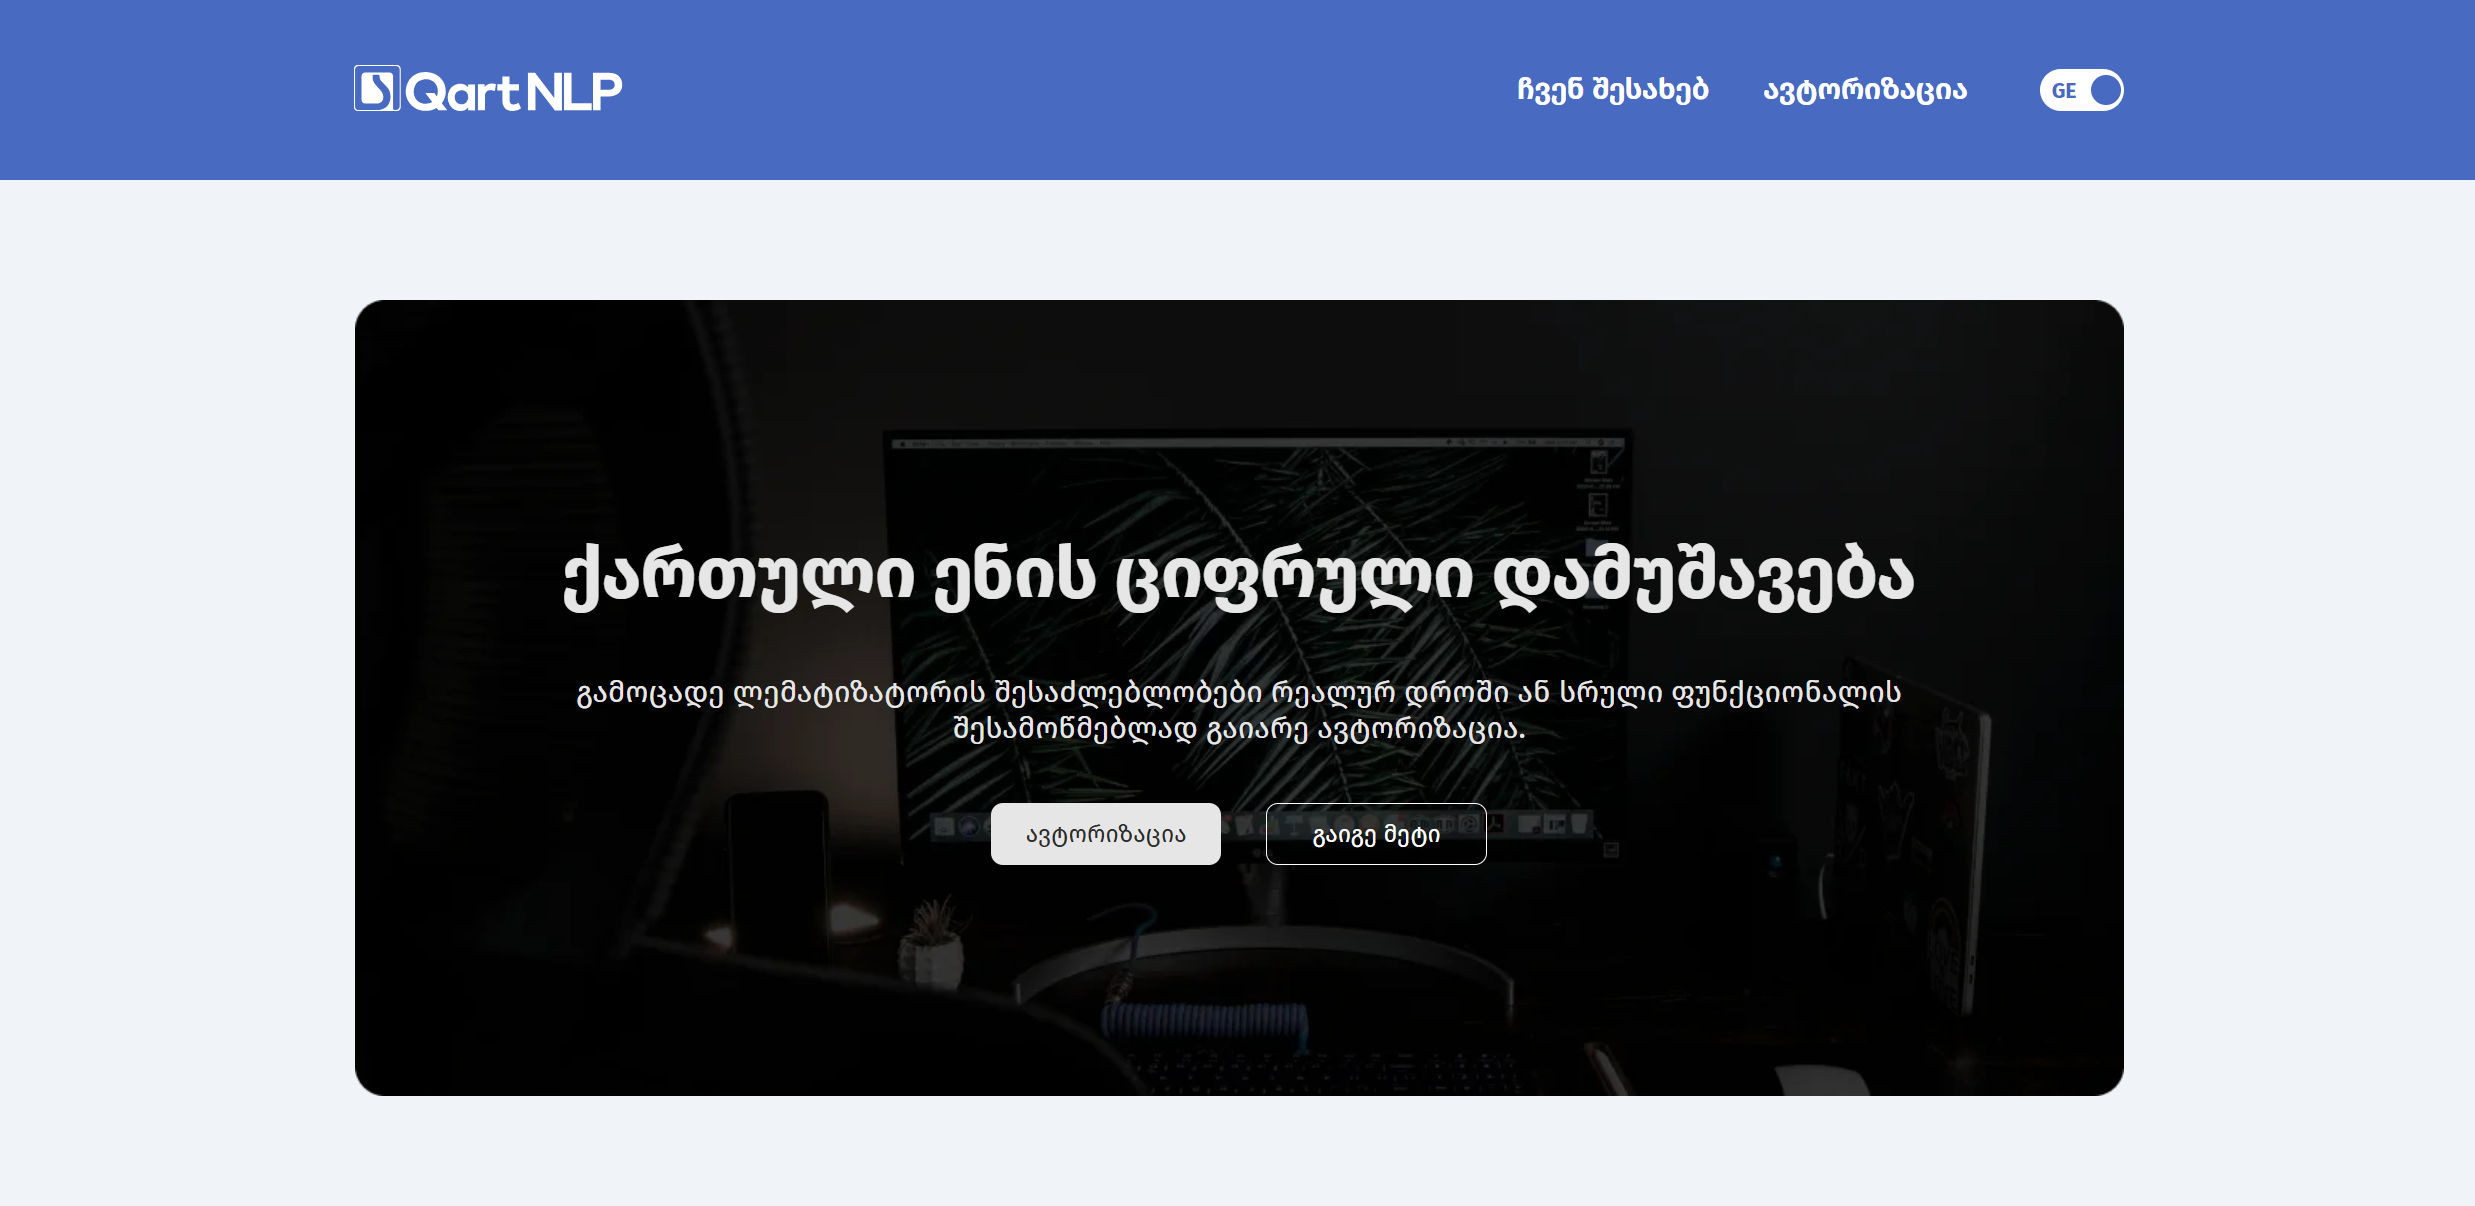
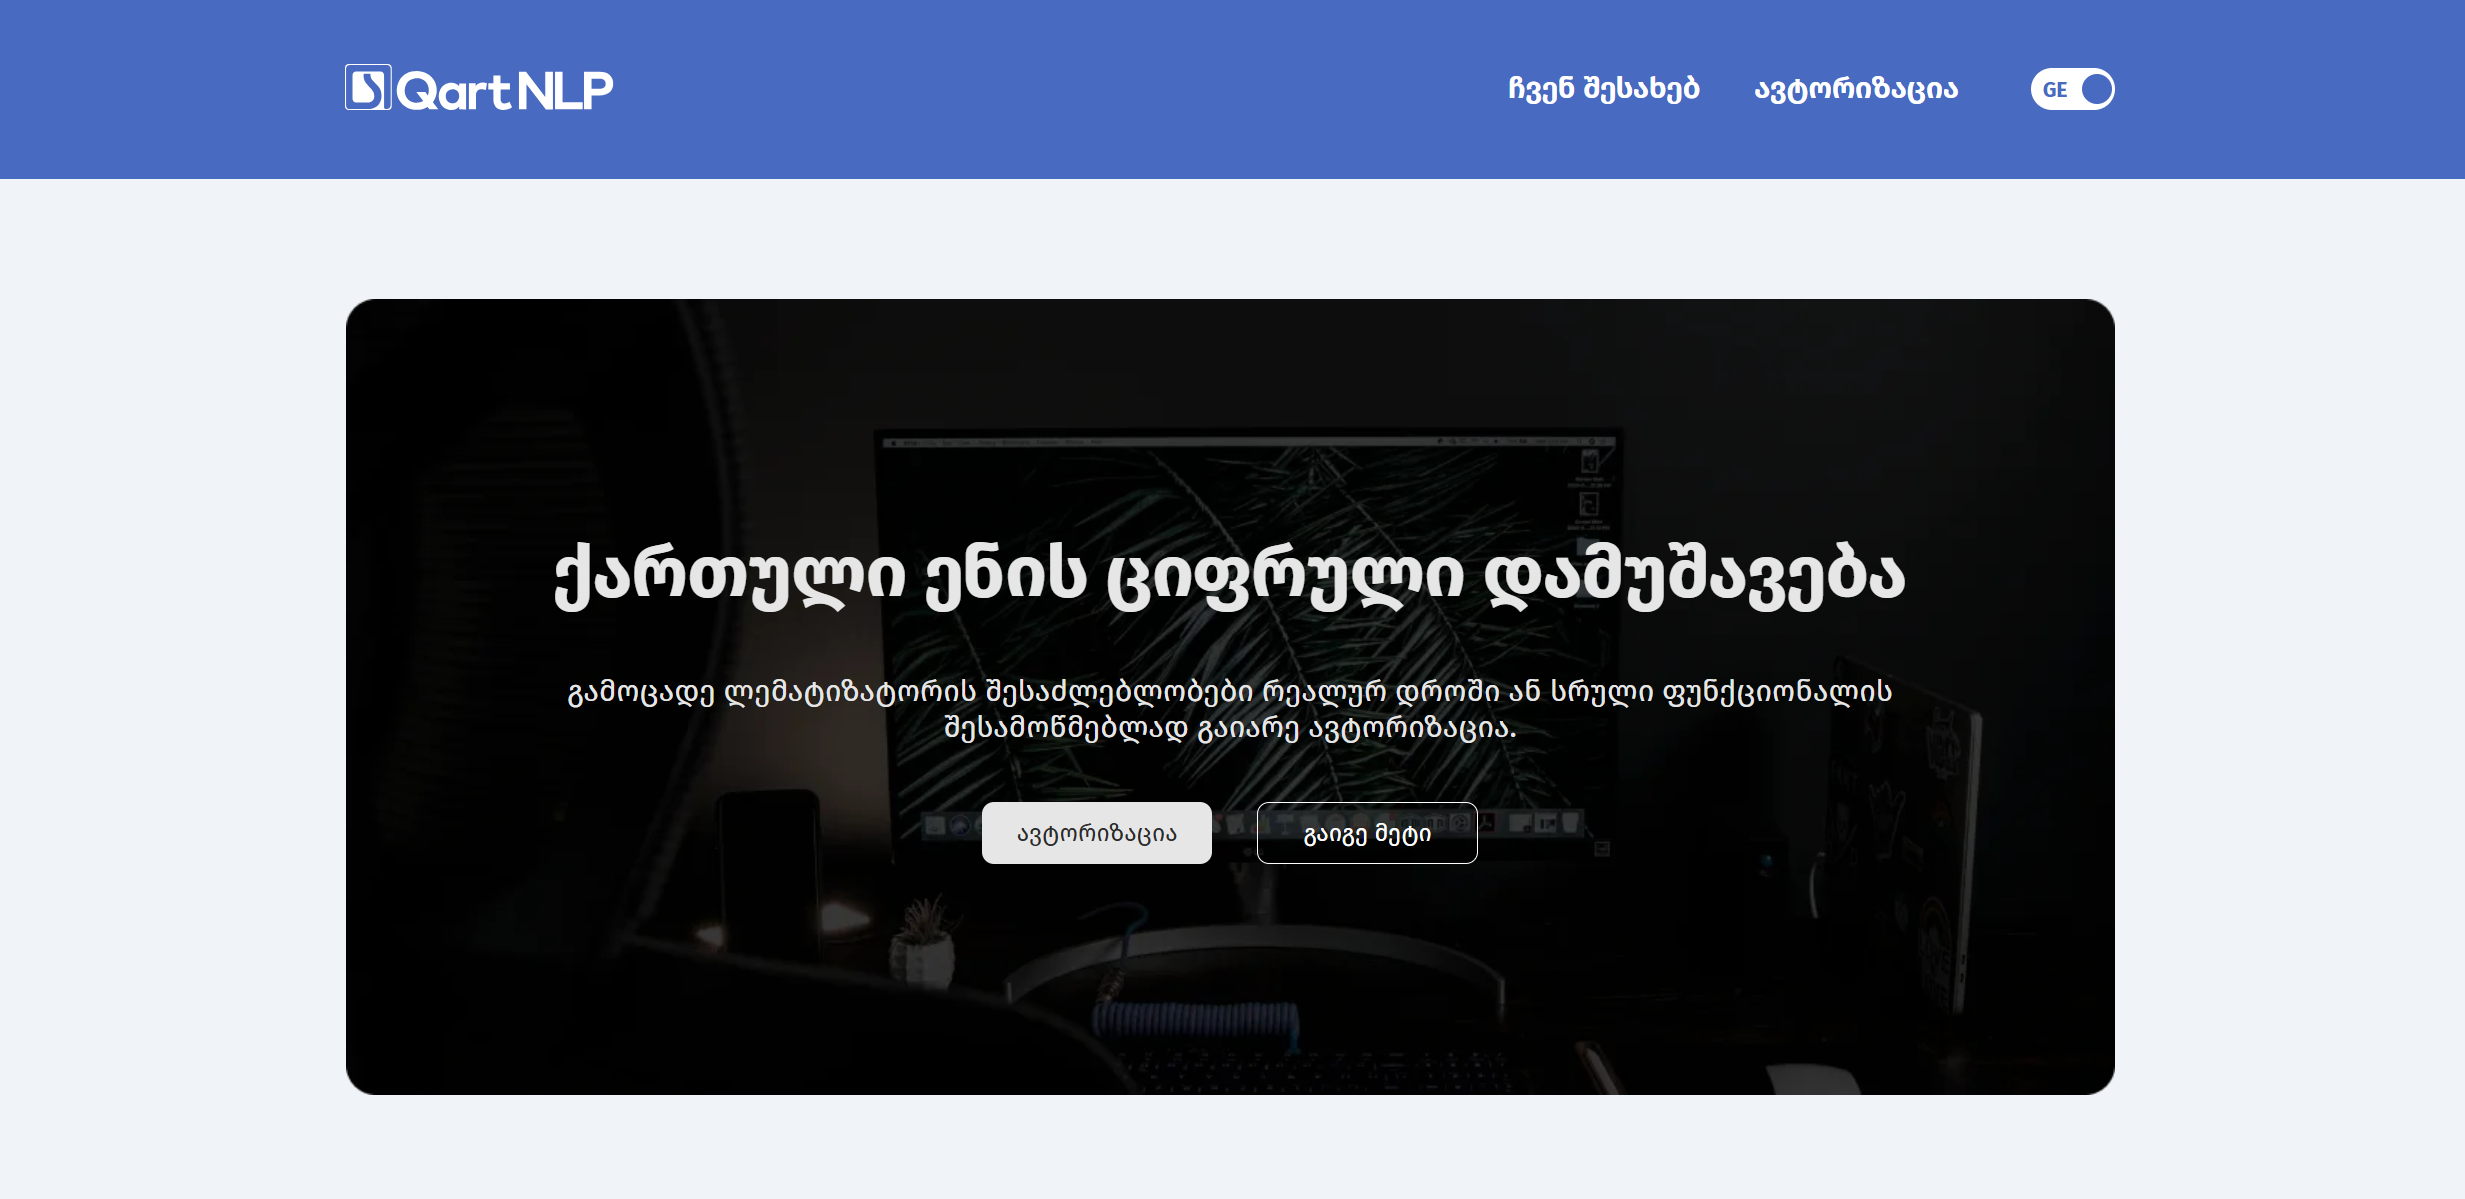
style: fixed stylization

diff --git a/index.html b/index.html
@@ -13,8 +13,10 @@
         src="./images/profile.jpg"
         alt="Photo of Nino Gabroshvili"
       />
-      <h1>Nino Gabroshvili</h1>
-      <p class="role">Front-End Developer</p>
+      <div>
+        <h1>Nino Gabroshvili</h1>
+        <p class="role">Front-End Developer</p>
+      </div>
     </header>
     <nav>
       <ul>
@@ -114,41 +116,55 @@
         <div class="projects-grid">
           <div>
             <h3>Ilia Library</h3>
-            <img
-              src="./images/Ilia_Library.png"
-              alt="Ilia library website image"
-            />
-            <p>
-              Contributed to the Ilia State University Library website during
-              Unilab's JavaScript Frontend Acceleration Program. Built and
-              styled UI components, improved responsiveness, and added
-              interactive behavior using HTML, SCSS, and JavaScript,
-              collaborating with mentors and fellow frontend developers.
-            </p>
-            <!-- https://mind1a.github.io/Library/ -->
+            <a
+              href="https://mind1a.github.io/Library/"
+              target="_blank"
+              rel="noopener noreferrer"
+              ><img
+                src="./images/ilia_library.png"
+                alt="Ilia library website image"
+              />
+              <p>
+                Contributed to the Ilia State University Library website during
+                Unilab's JavaScript Frontend Acceleration Program. Built and
+                styled UI components, improved responsiveness, and added
+                interactive behavior using HTML, SCSS, and JavaScript,
+                collaborating with mentors and fellow frontend developers.
+              </p>
+            </a>
           </div>
           <div>
             <h3>QartNLP</h3>
-            <img src="./images/QartNLP.png" alt="QartMLP website image" />
-            <p>
-              Implemented the frontend for the landing page of a
-              Georgian-language natural language processing project. Focused on
-              layout, responsiveness, and UI using HTML, SCSS, and JavaScript.
-            </p>
-            <!-- https://ninogabroshvili17.github.io/qartNLP/index.html -->
+            <a
+              href="https://ninogabroshvili17.github.io/qartNLP/index.html"
+              target="_blank"
+              rel="noopener noreferrer"
+              ><img src="./images/qartNLP.png" alt="QartMLP website image" />
+              <p>
+                Implemented the frontend for the landing page of a
+                Georgian-language natural language processing project. Focused
+                on layout, responsiveness, and UI using HTML, SCSS, and
+                JavaScript.
+              </p>
+            </a>
           </div>
           <div>
             <h3>Chatbot Camp</h3>
-            <img
-              src="./images/Chatbot_Camp.png"
-              alt="Chatbot camp website image"
-            />
-            <p>
-              Collaborated on a mini frontend project with a chat component. My
-              work was focused on responsiveness, logo layout adjustments, and
-              JavaScript interactions.
-            </p>
-            <!-- https://mind1a.github.io/chatbot_camp/ -->
+            <a
+              href="https://mind1a.github.io/chatbot_camp/"
+              target="_blank"
+              rel="noopener noreferrer"
+            >
+              <img
+                src="./images/chatbot_camp.png"
+                alt="Chatbot camp website image"
+              />
+              <p>
+                Collaborated on a mini frontend project with a chat component.
+                My work was focused on responsiveness, logo layout adjustments,
+                and JavaScript interactions.
+              </p>
+            </a>
           </div>
         </div>
       </section>

diff --git a/styles.css b/styles.css
@@ -9,27 +9,24 @@ html {
 }
 
 body {
-  font-family: monospace;
-  /* line-height: 1.5; */
-  color: #333;
-  background-color: #f2f2f2;
+  font-family: "Segoe UI", Tahoma, Geneva, Verdana, sans-serif;
+  line-height: 1.5;
+  background-color: #f5f5f7;
   max-width: 900px;
   margin: 0 auto;
   padding: 30px 30px 40px;
 }
 
 header {
-  text-align: center;
-  padding: 40px 0;
-  background: radial-gradient(
-    circle at center,
-    #162054 0%,
-    #3c467a 50%,
-    #5d6a94 100%
-  );
-  color: #c8c7d9;
-  border-radius: 12px 12px 0 0;
-  box-shadow: 0 0 40px rgba(25, 4, 70, 0.15);
+  height: 200px;
+  display: flex;
+  align-items: center;
+  padding-left: 20px;
+  color: #ffffff;
+  background-color: #36454f;
+  color: #ffffff;
+  border-radius: 12px;
+  box-shadow: 0 2px 6px rgba(0, 0, 0, 0.06);
 }
 
 .profile-photo {
@@ -37,8 +34,8 @@ header {
   height: 160px;
   border-radius: 50%;
   object-fit: cover;
-  border: 4px solid #c8c7d9;
-  margin-bottom: 16px;
+  border: 4px solid #ffffff;
+  margin-right: 20px;
 }
 
 header h1 {
@@ -52,8 +49,9 @@ header h1 {
 }
 
 nav {
-  background-color: #18003e;
-  border-radius: 0 0 12px 12px;
+  margin-top: 15px;
+  background-color: #36454f;
+  border-radius: 12px;
   padding: 12px 20px;
   margin-bottom: 30px;
 }
@@ -67,35 +65,35 @@ nav ul {
 }
 
 nav a {
-  color: #c8c7d9;
+  color: #e6e6ea;
   text-decoration: none;
   font-size: 16px;
   transition: color 0.2s;
 }
 
 nav a:hover {
-  color: #fff;
+  color: #ffffff;
 }
 
 section {
-  background: #fff;
+  background: #ffffff;
+  border: 1px solid #e4e4ea;
   border-radius: 10px;
   padding: 24px 28px;
-  box-shadow: 0 2px 8px rgba(25, 4, 70, 0.15);
-  margin-bottom: 12px;
+  box-shadow: 0 8px 18px rgba(0, 0, 0, 0.06);
+  margin-bottom: 16px;
 }
 
 h2 {
-  font-size: 24px;
-  color: #18003e;
+  font-size: 26px;
+  color: #36454f;
   margin-bottom: 12px;
   padding-bottom: 6px;
-  border-bottom: 2px solid #18003e;
+  border-bottom: 3px solid #000000;
 }
 
 section p {
   font-size: 16px;
-  /* margin-bottom: 12px; */
 }
 
 section ul {
@@ -105,54 +103,69 @@ section ul {
 
 section li {
   margin-bottom: 6px;
-  font-size: 0.95rem;
+  font-size: 16px;
 }
 
 section li a {
-  color: #4e4376;
+  color: #000000;
 }
 
 section h3 {
-  font-size: 1.1rem;
-  color: #4e4376;
-  margin-top: 16px;
-}
-
-/* section img {
-  width: 160px;
-  height: auto;
-} */
-
-#projects {
-  /* display: grid;
-  grid-template-columns: 1fr 1fr; */
+  font-size: 18px;
+  color: #36454f;
+  margin-top: 10px;
 }
 
 .projects-grid {
   display: grid;
-  grid-template-columns: repeat(3, 1fr); /* 3 columns by default */
-  gap: 24px; /* space between items */
-  align-items: start;
+  grid-template-columns: repeat(3, 1fr);
+  gap: 24px;
+}
+
+.projects-grid img {
+  width: 100%;
+  height: auto;
+  border-radius: 8px;
+  object-fit: cover;
+  margin-bottom: 8px;
+}
+
+.projects-grid h3 {
+  margin-bottom: 8px;
+}
+
+.projects-grid a {
+  text-decoration: none;
+  color: inherit;
+  display: block;
+}
+
+.projects-grid > div {
+  cursor: pointer;
+  padding: 14px;
+  border-radius: 10px;
+  border: 2px solid #ececf1;
+  transition:
+    transform 0.2s ease,
+    box-shadow 0.2s ease;
+}
+
+.projects-grid > div:hover {
+  transform: translateY(-3px);
+  box-shadow: 0 10px 18px rgba(0, 0, 0, 0.08);
 }
 
 @media (max-width: 1024px) {
   .projects-grid {
-    grid-template-columns: repeat(2, 1fr); /* 2 columns on medium screens */
+    grid-template-columns: repeat(2, 1fr);
   }
 }
 
 @media (max-width: 600px) {
   .projects-grid {
-    grid-template-columns: 1fr; /* 1 column on small screens */
+    grid-template-columns: 1fr;
   }
   .projects-grid div {
     text-align: center;
   }
-}
-
-.projects-grid img {
-  width: 100%; /* image fills column width */
-  height: auto; /* keeps aspect ratio */
-  border-radius: 8px;
-  object-fit: cover;
 }
